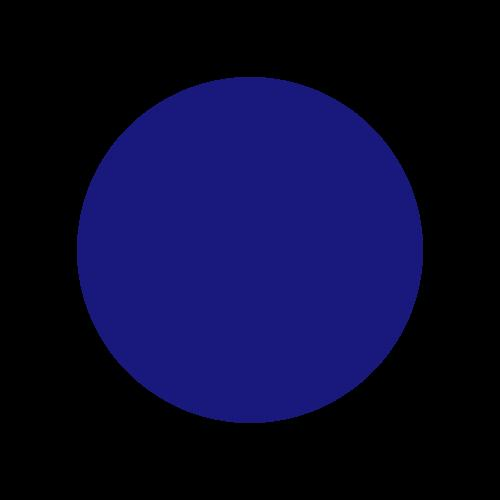
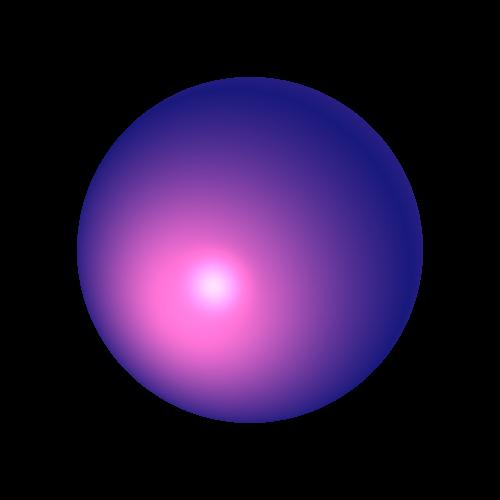
מוזר

Changed region(s): [[0.15, 0.21, 0.78, 0.84]]

diff --git a/src/renderer/Render.java b/src/renderer/Render.java
@@ -251,24 +251,25 @@ public class Render implements Comparable<Render> {
         Color reflectedLight = new Color(reflectR, reflectG, reflectB);
 
 
-        Color refractedLight = new Color(0, 0, 0);
+
         int refractedR = 0;
         int refractedG = 0;
         int refractedB = 0;
 
-        if(geometry.get_material().get_Kr() != 0) {//for reduce useless checks
+        if(geometry.get_material().get_Kt() != 0) {//for reduce useless checks
             Ray refractedRay = constructReflectedRay(geometry.getNormal(point), point, inRay);
             Map<Geometry, Point3D> refractedEntry =  getClosestPoint(getSceneRayIntersections(refractedRay), refractedRay);
             if (!refractedEntry.isEmpty()) {
 
                 Color refractedColor = calcColor( refractedEntry.entrySet().iterator().next().getKey(),
                         refractedEntry.entrySet().iterator().next().getValue(), refractedRay, level + 1);
-                double kt = geometry.get_material().get_Kr();
-                reflectR += (int) (kt * refractedColor.getRed());
-                reflectG += (int) (kt * refractedColor.getGreen());
-                reflectB += (int) (kt * refractedColor.getBlue());
+                double kt = geometry.get_material().get_Kt();
+                refractedR += (int) (kt * refractedColor.getRed());
+                refractedG += (int) (kt * refractedColor.getGreen());
+                refractedB += (int) (kt * refractedColor.getBlue());
             }
         }
+        Color refractedLight = new Color(refractedR, refractedG, refractedB);
 
 
 
@@ -514,13 +515,15 @@ public class Render implements Comparable<Render> {
         if (geometry instanceof FlatGeometry) {
             intersectionPoints.remove(geometry);
         }
+        if(intersectionPoints.isEmpty()){
+            return 1;
+        }
 
         for (Map.Entry<Geometry, List<Point3D>> entry : intersectionPoints.entrySet()) {
-            if (entry.getKey().get_material().get_Kt() == 0)
-                return 1;
-            return 0;
+            if (entry.getKey().get_material().get_Kt() == 0){ return 0;}
+
         }
-        return 0;
+        return 1;
     }
 
 
